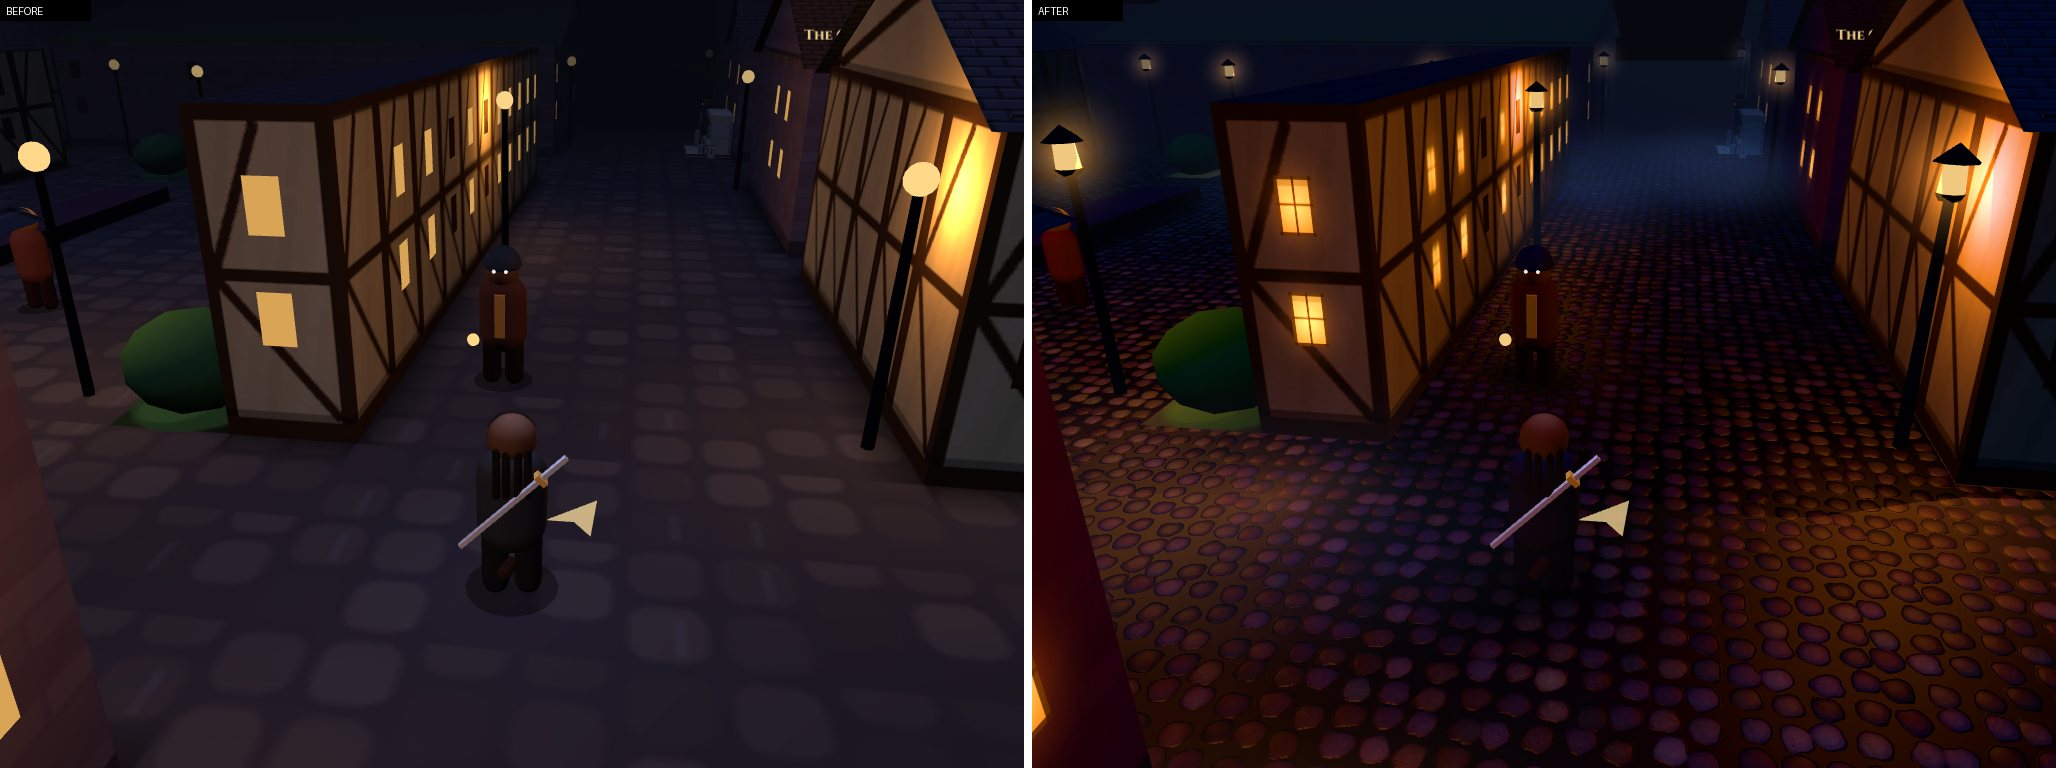
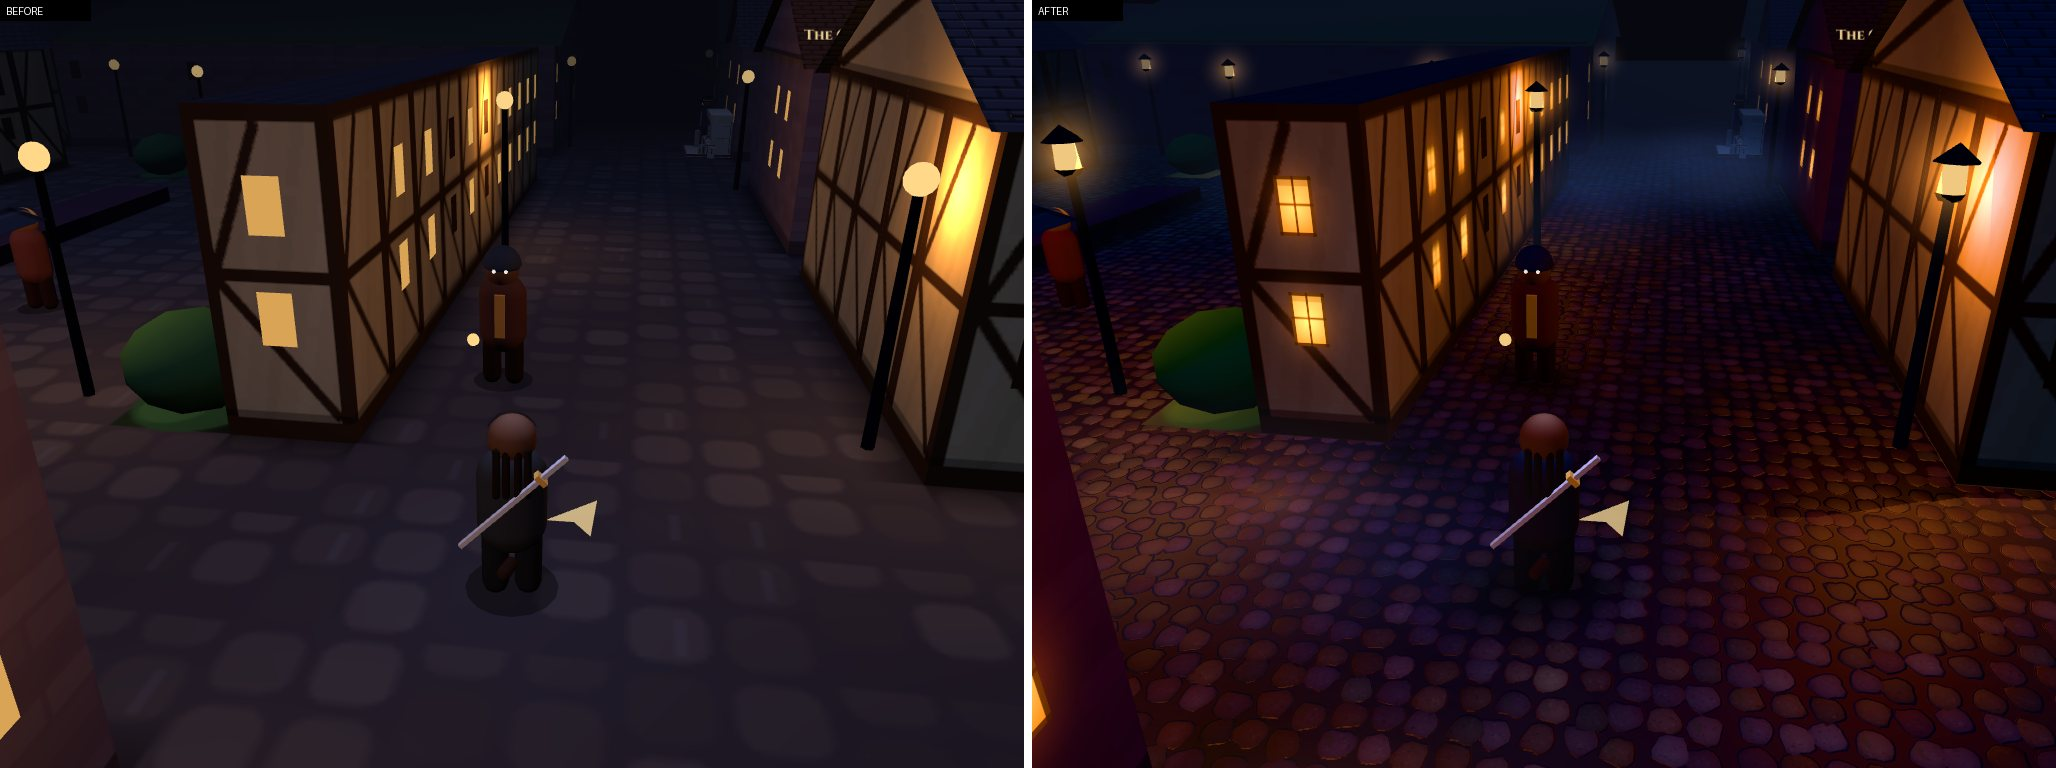
3D view: soften cobble outlines, warm interiors, keep ZAY readable
Cobbles: lighter grout, tighter stones, gentler rims and relief. Rooms with no street tiles (the Crooked Halo) get a warm ambient light instead of cold sky light. ZAY's own light is stronger so his dark clothes stay visible in the Veyrane estate. Updated before/after pictures including the other three districts.

Claude-Session: https://claude.ai/code/session_018ABXDm5oSdAiuR6P2bSVTi

diff --git a/light3d.js b/light3d.js
@@ -18,14 +18,14 @@ export function makeCobbles({ size = 1024, n = 22, seed = 7, maxAniso = 4 } = {}
   const rnd = seeded(seed);
   const col = canvas(size, size), hgt = canvas(size, size);
   const c = col.getContext('2d'), h = hgt.getContext('2d');
-  c.fillStyle = '#100f16'; c.fillRect(0, 0, size, size);   // grout
+  c.fillStyle = '#25232e'; c.fillRect(0, 0, size, size);   // grout (kept close to the stones' colour so they read as one surface)
   h.fillStyle = '#000'; h.fillRect(0, 0, size, size);
   const cell = size / n;
   const PALETTE = [[80, 80, 86], [74, 74, 80], [86, 82, 84], [84, 78, 74], [78, 74, 68], [70, 76, 74], [92, 88, 80], [66, 66, 72]];
   const stones = [];
   for (let j = 0; j < n; j++) for (let i = 0; i < n; i++) {
     const cx = (i + 0.5 + (rnd() - 0.5) * 0.34) * cell, cy = (j + 0.5 + (rnd() - 0.5) * 0.34) * cell;
-    const rx = cell * (0.35 + rnd() * 0.08), ry = cell * (0.33 + rnd() * 0.08), rot = (rnd() - 0.5) * 0.9;
+    const rx = cell * (0.39 + rnd() * 0.07), ry = cell * (0.37 + rnd() * 0.07), rot = (rnd() - 0.5) * 0.9;
     const pts = [];
     const K = 14, ph = rnd() * 6.28, wob = 0.05 + rnd() * 0.05;
     for (let k = 0; k < K; k++) {
@@ -35,7 +35,7 @@ export function makeCobbles({ size = 1024, n = 22, seed = 7, maxAniso = 4 } = {}
       const sq = 1 + 0.16 * Math.abs(Math.sin(2 * a));
       pts.push([Math.cos(a) * rx * r * sq, Math.sin(a) * ry * r * sq]);
     }
-    const base = PALETTE[Math.floor(rnd() * PALETTE.length)], lum = 0.8 + rnd() * 0.5;
+    const base = PALETTE[Math.floor(rnd() * PALETTE.length)], lum = 0.88 + rnd() * 0.32;
     stones.push({ cx, cy, rot, pts, rgb: base.map((v) => Math.min(255, v * lum)), rx, ry, seed: rnd() });
   }
   const path = (ctx, s, ox, oy, k = 1) => {
@@ -55,11 +55,11 @@ export function makeCobbles({ size = 1024, n = 22, seed = 7, maxAniso = 4 } = {}
       const [r, gg, b] = s.rgb;
       g.addColorStop(0, `rgb(${r * 1.12 | 0},${gg * 1.12 | 0},${b * 1.12 | 0})`);
       g.addColorStop(0.65, `rgb(${r | 0},${gg | 0},${b | 0})`);
-      g.addColorStop(1, `rgb(${r * 0.55 | 0},${gg * 0.55 | 0},${b * 0.58 | 0})`);
+      g.addColorStop(1, `rgb(${r * 0.8 | 0},${gg * 0.8 | 0},${b * 0.82 | 0})`);
       c.fillStyle = g; path(c, s, ox, oy); c.fill();
       // height: a low dome with a steep, rounded edge
       const hg = h.createRadialGradient(gx, gy, 0, gx, gy, Math.max(s.rx, s.ry) * 1.1);
-      hg.addColorStop(0, '#fff'); hg.addColorStop(0.55, '#d6d6d6'); hg.addColorStop(0.9, '#7a7a7a'); hg.addColorStop(1, '#3a3a3a');
+      hg.addColorStop(0, '#fff'); hg.addColorStop(0.55, '#e2e2e2'); hg.addColorStop(0.9, '#b4b4b4'); hg.addColorStop(1, '#8a8a8a');
       h.fillStyle = hg; path(h, s, ox, oy); h.fill();
       // grit and a few chips
       if (ox === 0 && oy === 0) {
@@ -74,7 +74,7 @@ export function makeCobbles({ size = 1024, n = 22, seed = 7, maxAniso = 4 } = {}
   const hd = h.getImageData(0, 0, size, size).data;
   const nrm = canvas(size, size), nc = nrm.getContext('2d'), out = nc.createImageData(size, size), o = out.data;
   const at = (x, y) => hd[(((y + size) % size) * size + ((x + size) % size)) * 4] / 255;
-  const strength = 2.6;
+  const strength = 1.7;
   for (let y = 0; y < size; y++) for (let x = 0; x < size; x++) {
     const dx = (at(x - 1, y) - at(x + 1, y)) * strength, dy = (at(x, y + 1) - at(x, y - 1)) * strength;   // image y points down, texture v points up
     const l = Math.hypot(dx, dy, 1), i = (y * size + x) * 4;

diff --git a/render3d.js b/render3d.js
@@ -47,7 +47,10 @@ if (renderer) {
   const scene = new THREE.Scene();
   scene.fog = new THREE.Fog(0x0b1122, 8, 27);   // cool blue haze: far streets fade into night, not into black
   const camera = new THREE.PerspectiveCamera(60, 1, 0.08, 60);
-  scene.add(new THREE.HemisphereLight(0x6a7fb0, 0x1c1a2c, 0.8));   // cool sky above, violet bounce from the ground
+  const hemi = new THREE.HemisphereLight(0x6a7fb0, 0x1c1a2c, 0.9);   // cool sky above, violet bounce from the ground
+  scene.add(hemi);
+  const OUTDOOR = { sky: new THREE.Color(0x6a7fb0), ground: new THREE.Color(0x1c1a2c), k: 0.9 };
+  const INDOOR = { sky: new THREE.Color(0xd0a070), ground: new THREE.Color(0x40281a), k: 1.3 };   // rooms with no street: a warm glow instead of cold sky
   const moon = new THREE.DirectionalLight(0x86a0e0, 0.85);
   moon.position.set(-6, 14, -4);
   scene.add(moon, moon.target);
@@ -60,7 +63,7 @@ if (renderer) {
     LIGHTS.push(l);
   }
   // ZAY's own faint glow so he never disappears into the dark.
-  const zayLight = new THREE.PointLight(0x8fa0d8, 1.2, 3.5, 1.5);
+  const zayLight = new THREE.PointLight(0x8fa0d8, 2.2, 4.8, 1.5);
   scene.add(zayLight);
 
   const resize3d = () => {
@@ -230,6 +233,9 @@ if (renderer) {
     const groundTex = new THREE.CanvasTexture(mapCanvas);
     groundTex.colorSpace = THREE.SRGBColorSpace;
     groundTex.anisotropy = 4;
+    const indoors = !grid.some((row) => row.includes('.'));
+    const mood = indoors ? INDOOR : OUTDOOR;
+    hemi.color.copy(mood.sky); hemi.groundColor.copy(mood.ground); hemi.intensity = mood.k;
     if (tintTex) tintTex.dispose();
     tintTex = makeTint({ grid, W, H, props: PROPS, TILE });
     const ground = mesh(new THREE.PlaneGeometry(W, H), withTint(new THREE.MeshLambertMaterial({ map: groundTex }), tintTex), W / 2, 0, H / 2);

diff --git a/docs/graphics/night-lighting-phase1.md b/docs/graphics/night-lighting-phase1.md
@@ -12,6 +12,11 @@ Scope: the 3D exploration view only (`render3d.js`, new `light3d.js`). The 2D co
 | Windows and building light | Lit windows have frames and a cross, a different warmth and brightness each, a soft glow around the glass, and a pool of light on the street in front. |
 | Grounding | The tint map darkens the ground where it meets walls (ambient occlusion) and under stalls and tables. Figure shadows are soft and stretch away from the nearest lantern. |
 
+## Review round (after the first look)
+
+- **Softer cobbles:** the grout is now close to the stones' colour, the stones sit closer together, their rims are less dark, and the relief is gentler, so the street reads as one worn surface instead of separately outlined pebbles. Texture and depth are kept.
+- **Other districts checked** (`crooked-halo-*`, `river-quarter-*`, `veyrane-estate-*` before/after pictures). Two things were visibly wrong and are fixed: the Crooked Halo (a room with no street) went too dark, so rooms with no street tiles now get a warm ambient glow instead of cold sky light; and ZAY's dark clothes nearly vanished in the Veyrane estate, so his own soft light is stronger and reaches further. The River Quarter looked right and was not changed.
+
 ## Tone mapping
 
 Same street, six options (`tone-mapping-comparison.jpg`; exposure chosen per mapper so overall brightness is similar):
